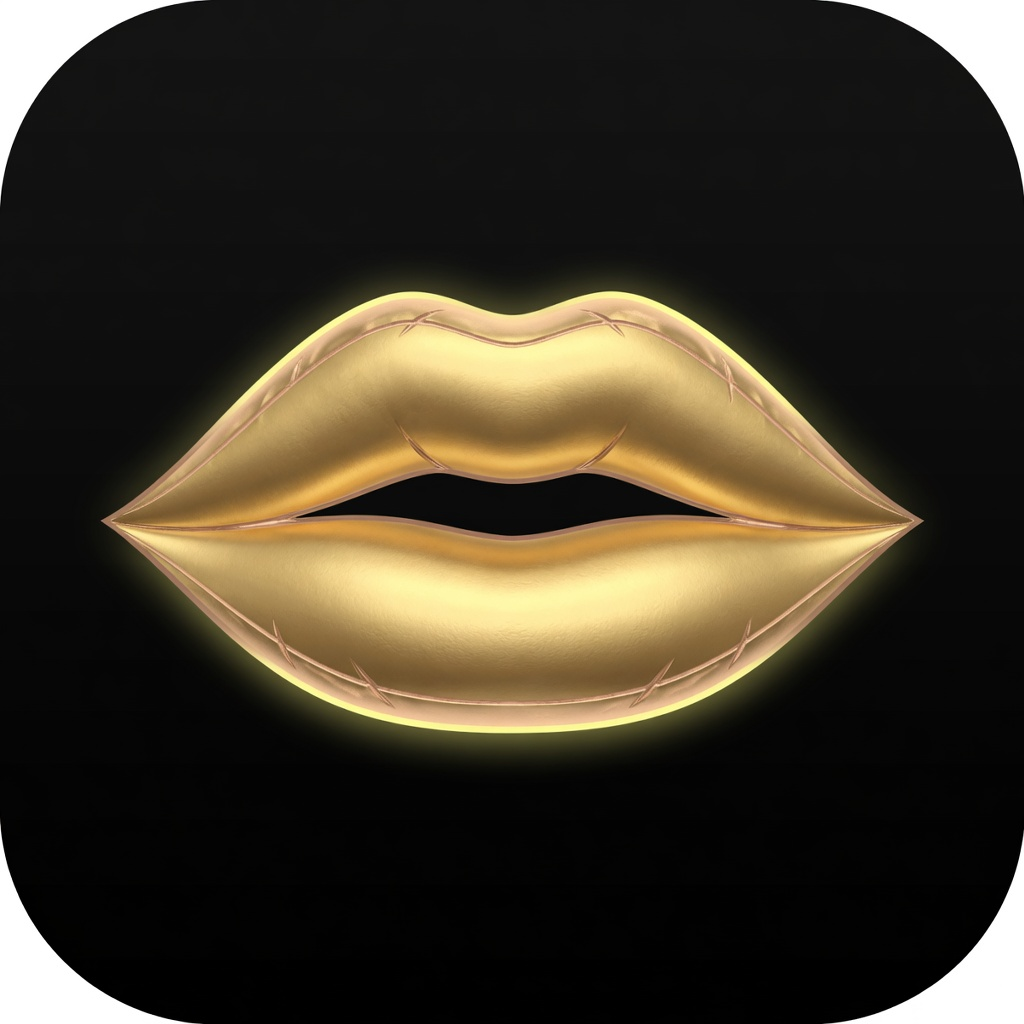
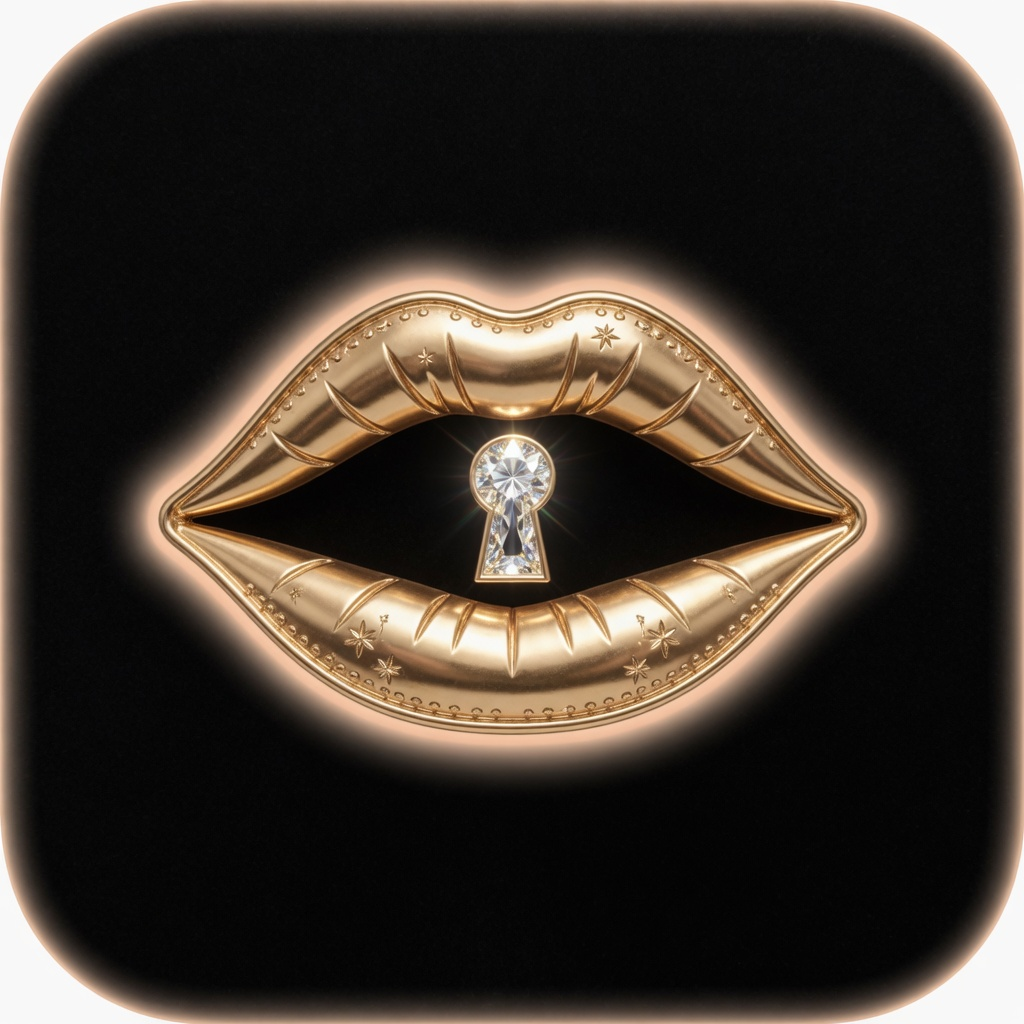
fix: open mobile drawer from the right with lips-keyhole brand mark
Slide the personal menu in from the hamburger side and refresh the logo to a gold lips + diamond keyhole emblem.

diff --git a/src/components/layout/AppShell.tsx b/src/components/layout/AppShell.tsx
@@ -241,14 +241,17 @@ export function AppShell({
         </div>
       </header>
 
-      {/* ---------- Mobile drawer ---------- */}
+      {/* ---------- Mobile drawer (from the RIGHT — under the hamburger) ---------- */}
       {mobileMenuOpen && (
         <div
-          className="fixed inset-0 z-50 bg-black/50 backdrop-blur-sm md:hidden"
+          className="fixed inset-0 z-50 flex justify-end bg-black/50 backdrop-blur-sm md:hidden"
           onClick={() => setMobileMenuOpen(false)}
         >
-          <div
-            className="flex h-full w-[min(84vw,20rem)] flex-col border-r border-gold/15 bg-base-950 p-4 shadow-2xl"
+          <motion.div
+            initial={{ x: "100%" }}
+            animate={{ x: 0 }}
+            transition={{ type: "spring", stiffness: 380, damping: 34 }}
+            className="flex h-full w-[min(84vw,20rem)] flex-col border-l border-gold/15 bg-base-950 p-4 shadow-[-18px_0_50px_rgba(0,0,0,0.45)]"
             style={{ paddingTop: "calc(1rem + env(safe-area-inset-top))" }}
             onClick={(e) => e.stopPropagation()}
           >
@@ -260,7 +263,7 @@ export function AppShell({
                     Desire Privé
                   </p>
                   <p className="text-[10px] uppercase tracking-[0.18em] text-gold-soft/50">
-                    меню
+                    private menu
                   </p>
                 </div>
               </div>
@@ -293,7 +296,7 @@ export function AppShell({
             <div className="mt-4 border-t border-gold/10 pt-3">
               <LogoutButton wide />
             </div>
-          </div>
+          </motion.div>
         </div>
       )}
 